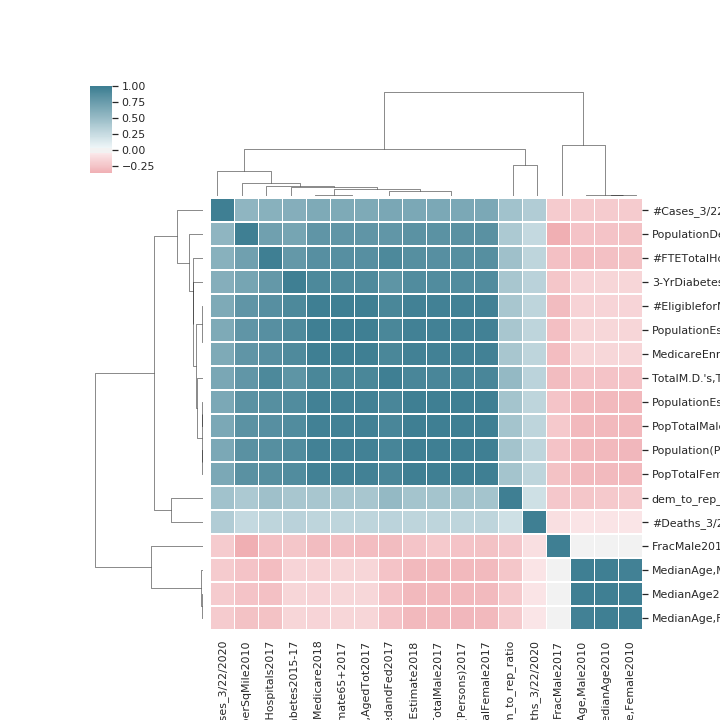
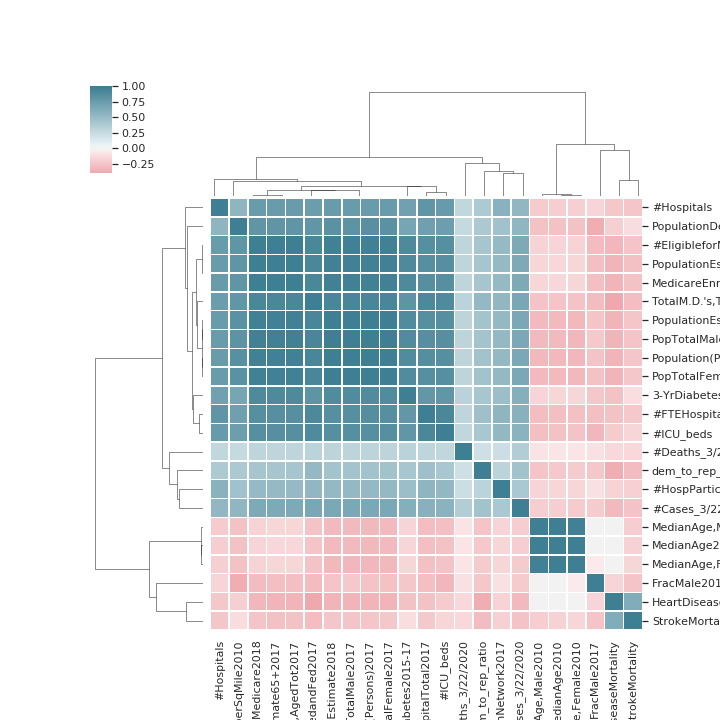
add new vars

diff --git a/functions/merge_data.py b/functions/merge_data.py
@@ -34,21 +34,21 @@ def merge_data(ahrf_data,
     
     diabetes = pd.read_csv(diabetes, skiprows = 2, skipfooter = 1)
     diabetes = diabetes[["CountyFIPS", "Percentage"]]
-    diabetes.columns = ["countyFIPS", "Diabetes Percentage"]
+    diabetes.columns = ["countyFIPS", "DiabetesPercentage"]
     
     heart_disease = pd.read_csv(heart_disease_data, na_values = [-1, ""])
     heart_disease = heart_disease[["cnty_fips", "Value"]]
-    heart_disease.columns = ["countyFIPS", "Heart Disease Mortality"]
+    heart_disease.columns = ["countyFIPS", "HeartDiseaseMortality"]
     
     stroke = pd.read_csv(stroke_data, na_values = [-1, ""])
     stroke = stroke[["cnty_fips", "Value"]]
-    stroke.columns = ["countyFIPS", "Stroke Mortality"]
+    stroke.columns = ["countyFIPS", "StrokeMortality"]
     
     resp_disease = load_respiratory_disease_data.loadRespDiseaseSheet(resp_group)
     
     icu = pd.read_csv(icu)
     icu = icu[["cnty_fips", "hospitals", "icu_beds"]]
-    icu.columns = ["countyFIPS", "hospitals", "icu_beds"]
+    icu.columns = ["countyFIPS", "#Hospitals", "#ICU_beds"]
     
     voting = pd.read_pickle(voting)
 

diff --git a/load_data.py b/load_data.py
@@ -39,6 +39,7 @@ def load_county_level(ahrf_data = 'data/hrsa/data_AHRF_2018-2019/processed/df_re
     
     # add features
     df['FracMale2017'] = df['PopTotalMale2017'] / (df['PopTotalMale2017'] + df['PopTotalFemale2017'])
+    df['#FTEHospitalTotal2017'] = df['#FTETotalHospitalPersonnelShortTermGeneralHospitals2017'] + df['#FTETotalHospitalPersonnelSTNon-Gen+LongTermHosps2017']
 
     return df
 

diff --git a/outline.md b/outline.md
@@ -1,4 +1,4 @@
-# tldr
+# ventilator risk prediction
 
 1. **Goal:** prioritizing where ventilators go
 2. **Approach** 
